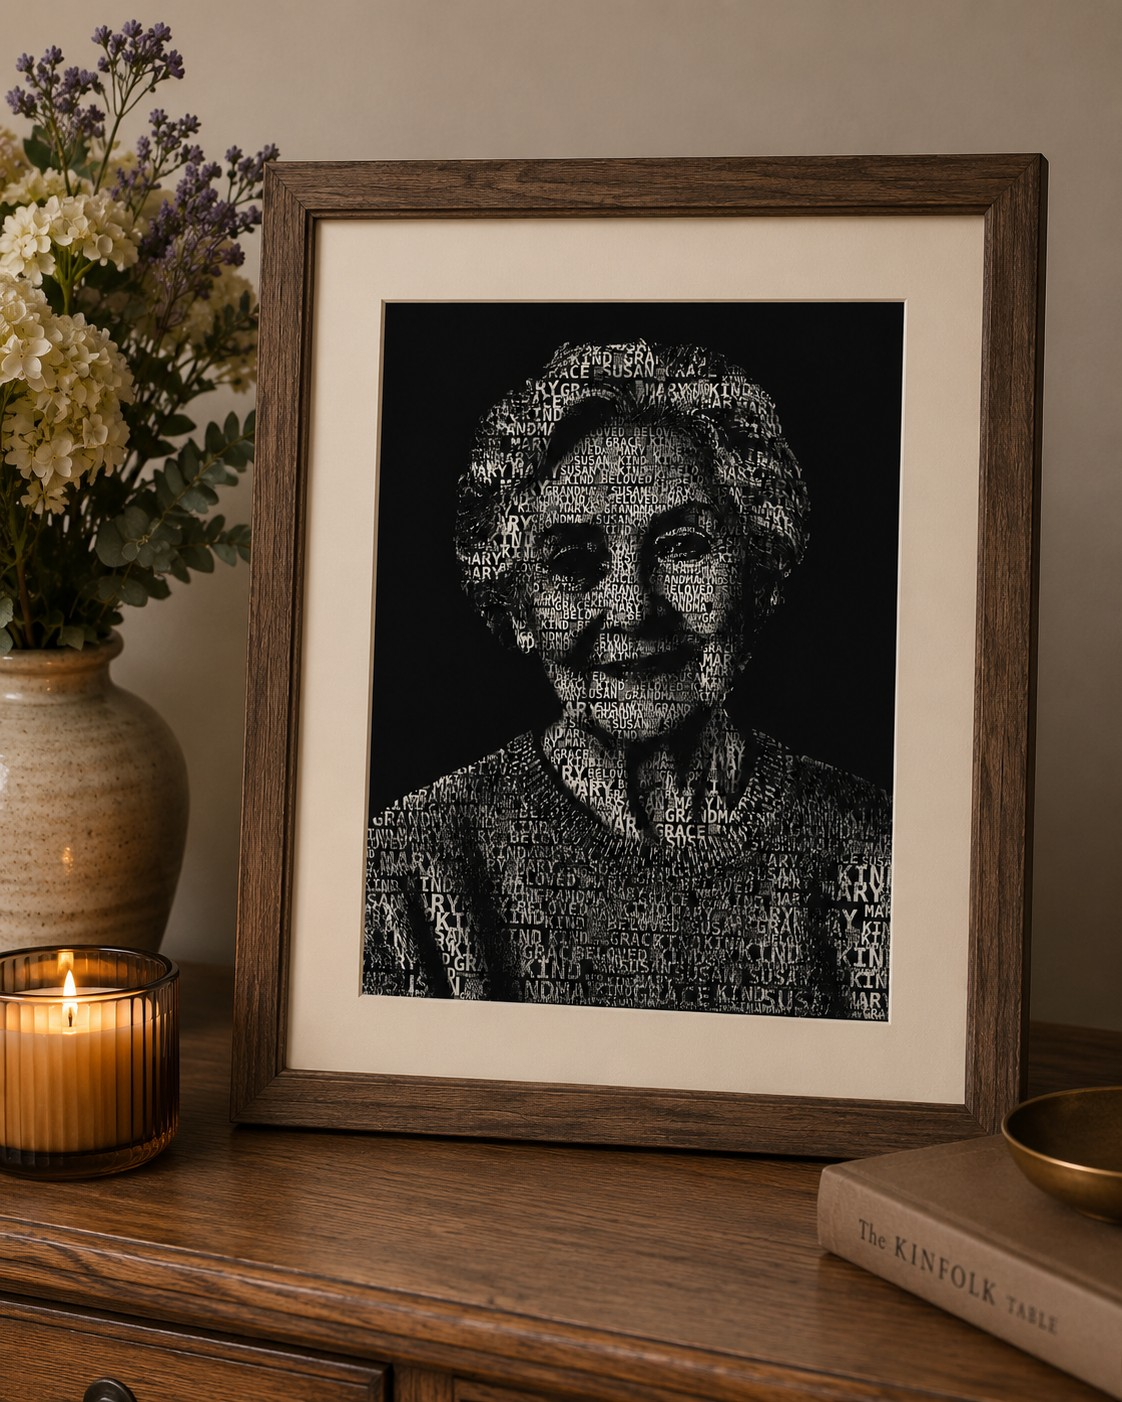
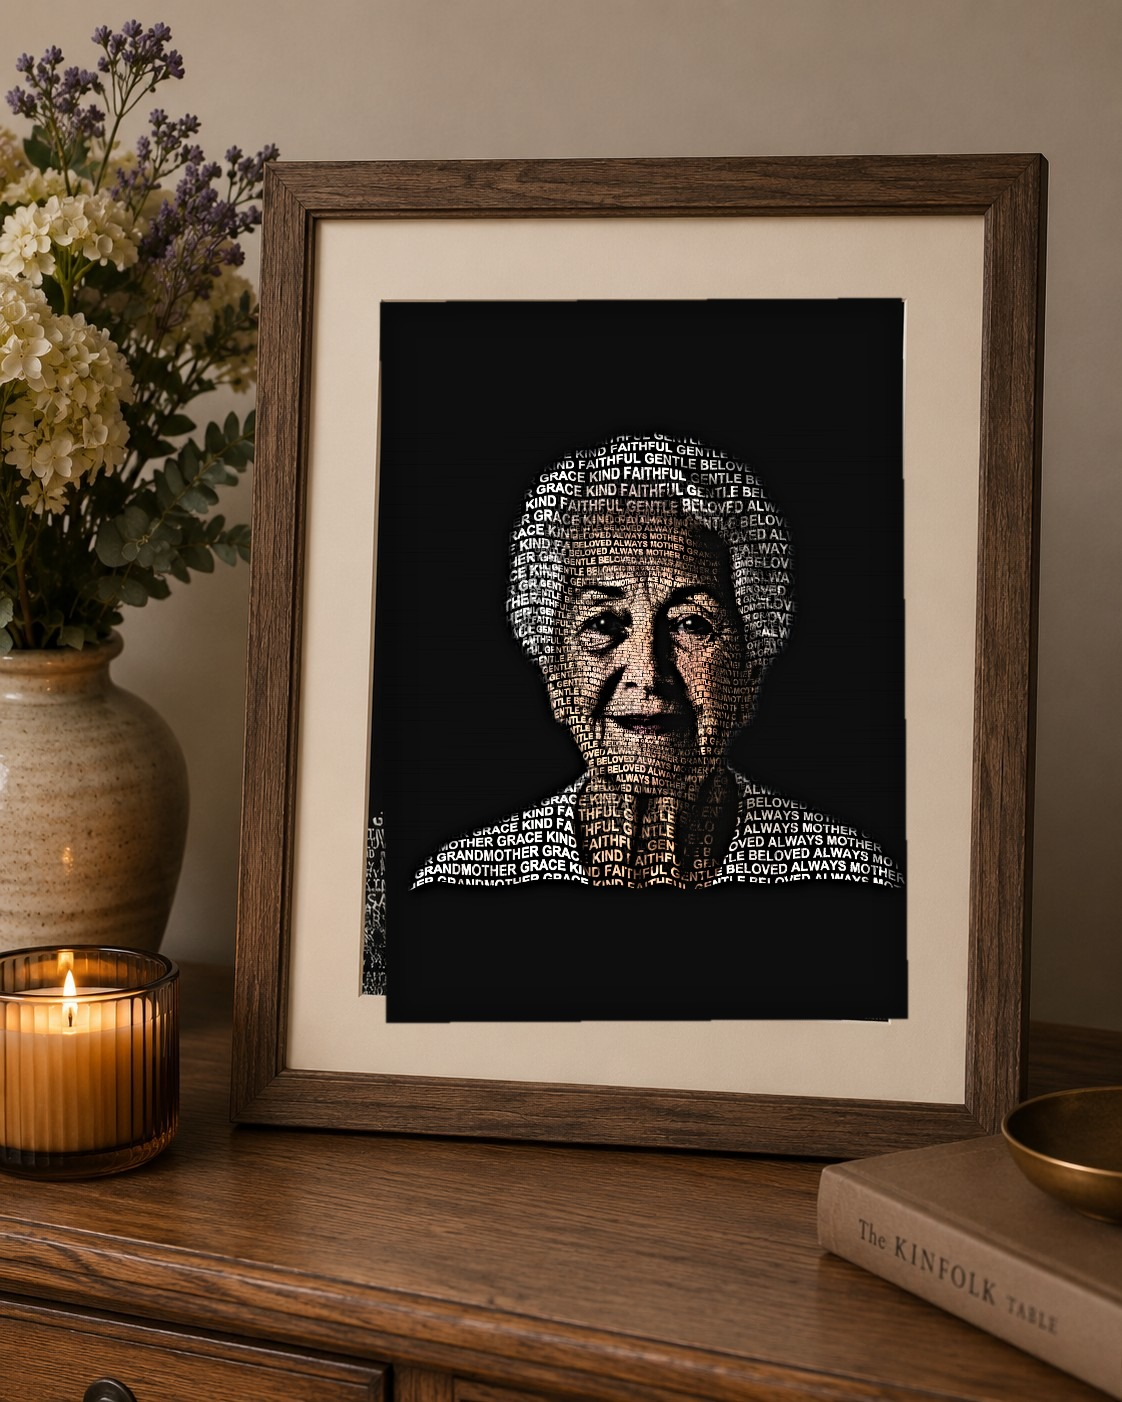
Loved in Words: refresh the hero desk scene with a Sculpt portrait
The framed portrait on the desk was the old grayscale Words render. Replace the
artwork inside the frame with a renderer-fresh Sculpt/Lifelike portrait (Grace,
dark ground, Original colour) composited into the same desk scene (perspective-
warped into the mat opening, with a soft inner mat-shadow). This matches the
app's new default style and reads as a photograph that resolves into words.
Cache-bust the <img> ref (scene.jpg?v=2) so it can't serve stale.

Changed region(s): [[0.3431, 0.2454, 0.8111, 0.7361], [0.3119, 0.2147, 0.3431, 0.276]]

diff --git a/typography_engine/marketing/lovedinwords/index.html b/typography_engine/marketing/lovedinwords/index.html
@@ -136,7 +136,7 @@ footer .by{display:block; margin-top:8px; font-size:12px; color:var(--muted); op
     <p class="sub">A photo of the person you've lost becomes a portrait composed of their name, their dates, and the words that captured who they were — printed, framed, and ready to hang or to give.</p>
     <a class="btn" href="https://app.typortrait.com/static/index.html?brand=lovedinwords">Create a remembrance keepsake</a>
     <span class="free">Free to create and preview — you only order it if it feels right.</span>
-    <img class="shot scene" src="scene.jpg" alt="A memorial portrait made from words, framed on a desk beside a candle and flowers" />
+    <img class="shot scene" src="scene.jpg?v=2" alt="A lifelike memorial portrait made from words, framed on a desk beside a candle and flowers" />
     <button type="button" class="zoomlink" id="zoomBtn">&#128269; View the words up close</button>
   </header>
 
